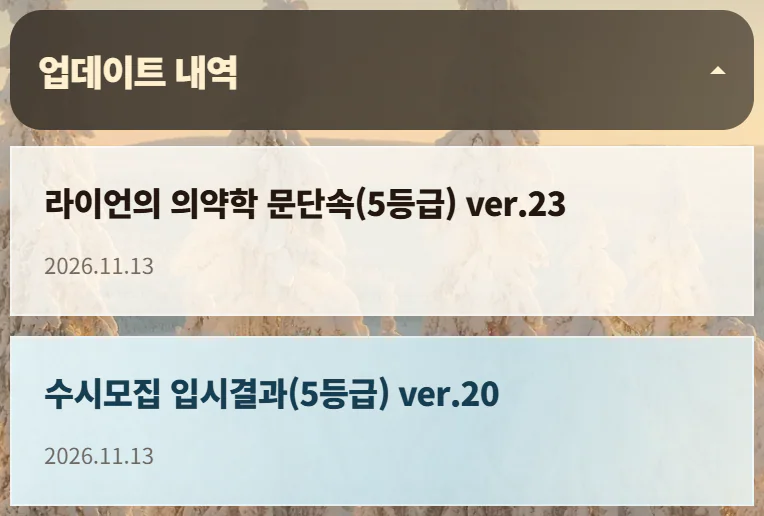
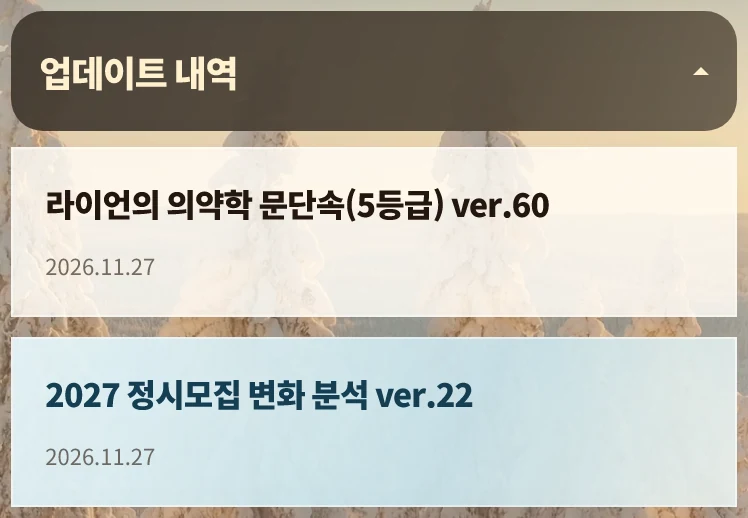
Refresh linked project history and add a subtle button glow

diff --git a/index.html b/index.html
@@ -30,7 +30,7 @@
   <meta name="twitter:title" content="진학 인사이트">
   <meta name="twitter:description" content="입시 정보와 진학 도구를 한곳에서 확인하세요.">
   <meta name="twitter:image" content="https://seiryu1318.github.io/Ergosphere_Ryan/og-preview-20260827-05.jpg">
-  <title>라이언의 대입 포털 ver.20261127 - 07</title>
+  <title>라이언의 대입 포털 ver.20261127 - 08</title>
   <script>
     const tabletViewKey = "ryan-portal-tablet-view";
     const manualViewKey = "ryan-portal-manual-view";
@@ -4136,18 +4136,16 @@
         position: absolute;
         pointer-events: none;
         z-index: -1;
-        inset: 0 auto 0 0;
-        width: 75%;
-        background: linear-gradient(109deg, transparent 6%, #ccefff10 27%, #dff6ff50 49%, #dff6ff2a 63%, #ccefff0c 78%, transparent 94%);
-        animation: action-sheen 2.6s ease-in-out infinite;
-        animation-delay: var(--sheen-delay, 0s);
+        inset: 0;
+        background: radial-gradient(ellipse at 50% 15%, #e0f8ff48 0, #a7e9ff26 43%, #9fdfff10 65%, transparent 88%);
+        animation: action-glow 2.6s ease-in-out infinite;
+        animation-delay: var(--glow-delay, 0s);
       }
-      #viewToggle { --sheen-delay: -.32s; }
-      .help-launch { --sheen-delay: -.65s; }
-      @keyframes action-sheen {
-        0% { opacity: 0; transform: translateX(-105%); }
-        22%, 38% { opacity: .85; }
-        60%, 100% { opacity: 0; transform: translateX(140%); }
+      #viewToggle { --glow-delay: -.32s; }
+      .help-launch { --glow-delay: -.65s; }
+      @keyframes action-glow {
+        0%, 100% { opacity: .08; }
+        50% { opacity: .92; }
       }
     }
     html.mode-mobile-root, body.mode-mobile { overscroll-behavior-y: none; }
@@ -4210,7 +4208,7 @@
[1 lines of base64/hex data omitted]
         <span class="brand-copy">
           <strong>라이언의 대입 포털</strong>
-          <span>ver.20261127 - 07</span>
+          <span>ver.20261127 - 08</span>
         </span>
       </a>
       <div class="header-actions">
@@ -4242,58 +4240,62 @@
           </div>
           <div class="roadmap-grid">
             <article class="roadmap-card" data-project="medical-5">
-              <h3>라이언의 의약학 문단속<br>(5등급) ver.23</h3>
-              <span class="roadmap-date">2026.11.13</span><span class="roadmap-number">1</span>
+              <h3>라이언의 의약학 문단속<br>(5등급) ver.60</h3>
+              <span class="roadmap-date">2026.11.27</span><span class="roadmap-number">1</span>
             </article>
-            <article class="roadmap-card" data-project="admission-5">
-              <h3>수시모집 입시결과<br>(5등급) ver.20</h3>
-              <span class="roadmap-date">2026.11.13</span><span class="roadmap-number">2</span>
+            <article class="roadmap-card" data-project="regular-a">
+              <h3>2027 정시모집 변화 분석<br>ver.22</h3>
+              <span class="roadmap-date">2026.11.27</span><span class="roadmap-number">2</span>
             </article>
-            <article class="roadmap-card" data-project="record">
-              <h3>라이언의 기록 분석<br>PC ver.35<br>모바일 ver.28</h3>
-              <span class="roadmap-date">2026.11.13</span><span class="roadmap-number">3</span>
+            <article class="roadmap-card" data-project="guide">
+              <h3>가이드북 통합 검색기<br>ver.26</h3>
+              <span class="roadmap-date">2026.11.26</span><span class="roadmap-number">3</span>
             </article>
             <article class="roadmap-card" data-project="regular">
-              <h3>정시모집 입결 분석기<br>(2023-2026) ver.20</h3>
-              <span class="roadmap-date">2026.10.27</span><span class="roadmap-number">4</span>
+              <h3>정시모집 입결 분석기<br>(2023-2026) ver.22</h3>
+              <span class="roadmap-date">2026.11.25</span><span class="roadmap-number">4</span>
+            </article>
+            <article class="roadmap-card" data-project="admission-5">
+              <h3>수시모집 입시결과<br>(5등급) ver.24</h3>
+              <span class="roadmap-date">2026.11.23</span><span class="roadmap-number">5</span>
+            </article>
+            <article class="roadmap-card" data-project="doc-ev">
+              <h3>라이언의 모집단위<br>추천 ver.19</h3>
+              <span class="roadmap-date">2026.11.17</span><span class="roadmap-number">6</span>
             </article>
             <article class="roadmap-card" data-project="curriculum">
-              <h3>2022 선택과목 검색기<br>ver.53</h3>
-              <span class="roadmap-date">2026.10.19</span><span class="roadmap-number">5</span>
+              <h3>2022 선택과목 검색기<br>ver.54</h3>
+              <span class="roadmap-date">2026.11.17</span><span class="roadmap-number">7</span>
             </article>
             <article class="roadmap-card" data-project="rating">
-              <h3>5등급 - 9등급 변환<br>ver.40</h3>
-              <span class="roadmap-date">2026.10.14</span><span class="roadmap-number">6</span>
+              <h3>5등급 - 9등급 변환<br>ver.41</h3>
+              <span class="roadmap-date">2026.11.17</span><span class="roadmap-number">8</span>
+            </article>
+            <article class="roadmap-card" data-project="competition">
+              <h3>경쟁률 검색기<br>PC ver.22<br>모바일 ver.10</h3>
+              <span class="roadmap-date">2026.11.17</span><span class="roadmap-number">9</span>
+            </article>
+            <article class="roadmap-card" data-project="record">
+              <h3>라이언의 기록 분석<br>PC ver.36<br>모바일 ver.29</h3>
+              <span class="roadmap-date">2026.11.17</span><span class="roadmap-number">10</span>
             </article>
             <article class="roadmap-card" data-project="medical-9">
               <h3>라이언의 의약학 문단속<br>(9등급) ver.58</h3>
-              <span class="roadmap-date">2026.10.14</span><span class="roadmap-number">7</span>
+              <span class="roadmap-date">2026.10.14</span><span class="roadmap-number">11</span>
             </article>
-            <article class="roadmap-card" data-project="regular-a">
-              <h3>2027 정시모집 변화 분석<br>ver.16</h3>
-              <span class="roadmap-date">2026.10.14</span><span class="roadmap-number">8</span>
-            </article>
-            <article class="roadmap-card">
+            <article class="roadmap-card" data-project="admission-9">
               <h3>수시모집 입시결과<br>(9등급) ver.114</h3>
-              <span class="roadmap-date">2026.09.29</span><span class="roadmap-number">9</span>
-            </article>
-            <article class="roadmap-card">
-              <h3>라이언의 모집단위<br>추천 ver.18</h3>
-              <span class="roadmap-date">2026.09.29</span><span class="roadmap-number">10</span>
-            </article>
-            <article class="roadmap-card">
-              <h3>가이드북 통합 검색기<br>ver.21</h3>
-              <span class="roadmap-date">2026.09.22</span><span class="roadmap-number">11</span>
+              <span class="roadmap-date">2026.09.29</span><span class="roadmap-number">12</span>
             </article>
             <article class="roadmap-card">
               <span class="roadmap-badge">준비 중</span>
               <h3>좋은 기록이란<br>무엇일까?</h3>
-              <span class="roadmap-date">예정</span><span class="roadmap-number">12</span>
+              <span class="roadmap-date">예정</span><span class="roadmap-number">13</span>
             </article>
             <article class="roadmap-card">
               <span class="roadmap-badge">준비 중</span>
               <h3>의약학 특화<br>가이드</h3>
-              <span class="roadmap-date">예정</span><span class="roadmap-number">13</span>
+              <span class="roadmap-date">예정</span><span class="roadmap-number">14</span>
             </article>
           </div>
           <p class="roadmap-credit">Copyright © 2026 동대부속고 라이언</p>
@@ -4514,17 +4516,18 @@
       <details class="mobile-section" id="mobileUpdates">
         <summary><h2 class="mobile-section-title" id="mobileRoadmapTitle">업데이트 내역</h2></summary>
         <ol class="mobile-roadmap-list">
-          <li class="mobile-roadmap-item" data-project="medical-5"><span><strong>라이언의 의약학 문단속(5등급) ver.23</strong><small>2026.11.13</small></span></li>
-          <li class="mobile-roadmap-item" data-project="admission-5"><span><strong>수시모집 입시결과(5등급) ver.20</strong><small>2026.11.13</small></span></li>
-          <li class="mobile-roadmap-item" data-project="record"><span><strong>라이언의 기록 분석 PC ver.35, 모바일 ver.28</strong><small>2026.11.13</small></span></li>
-          <li class="mobile-roadmap-item" data-project="regular"><span><strong>정시모집 입결 분석기(2023-2026) ver.20</strong><small>2026.10.27</small></span></li>
-          <li class="mobile-roadmap-item" data-project="curriculum"><span><strong>2022 선택과목 검색기 ver.53</strong><small>2026.10.19</small></span></li>
-          <li class="mobile-roadmap-item" data-project="rating"><span><strong>5등급 - 9등급 변환 ver.40</strong><small>2026.10.14</small></span></li>
+          <li class="mobile-roadmap-item" data-project="medical-5"><span><strong>라이언의 의약학 문단속(5등급) ver.60</strong><small>2026.11.27</small></span></li>
+          <li class="mobile-roadmap-item" data-project="regular-a"><span><strong>2027 정시모집 변화 분석 ver.22</strong><small>2026.11.27</small></span></li>
+          <li class="mobile-roadmap-item" data-project="guide"><span><strong>가이드북 통합 검색기 ver.26</strong><small>2026.11.26</small></span></li>
+          <li class="mobile-roadmap-item" data-project="regular"><span><strong>정시모집 입결 분석기(2023-2026) ver.22</strong><small>2026.11.25</small></span></li>
+          <li class="mobile-roadmap-item" data-project="admission-5"><span><strong>수시모집 입시결과(5등급) ver.24</strong><small>2026.11.23</small></span></li>
+          <li class="mobile-roadmap-item" data-project="doc-ev"><span><strong>라이언의 모집단위 추천 ver.19</strong><small>2026.11.17</small></span></li>
+          <li class="mobile-roadmap-item" data-project="curriculum"><span><strong>2022 선택과목 검색기 ver.54</strong><small>2026.11.17</small></span></li>
+          <li class="mobile-roadmap-item" data-project="rating"><span><strong>5등급 - 9등급 변환 ver.41</strong><small>2026.11.17</small></span></li>
+          <li class="mobile-roadmap-item" data-project="competition"><span><strong>경쟁률 검색기 PC ver.22, 모바일 ver.10</strong><small>2026.11.17</small></span></li>
+          <li class="mobile-roadmap-item" data-project="record"><span><strong>라이언의 기록 분석 PC ver.36, 모바일 ver.29</strong><small>2026.11.17</small></span></li>
           <li class="mobile-roadmap-item" data-project="medical-9"><span><strong>라이언의 의약학 문단속(9등급) ver.58</strong><small>2026.10.14</small></span></li>
-          <li class="mobile-roadmap-item" data-project="regular-a"><span><strong>2027 정시모집 변화 분석 ver.16</strong><small>2026.10.14</small></span></li>
-          <li class="mobile-roadmap-item"><span><strong>수시모집 입시결과(9등급) ver.114</strong><small>2026.09.29</small></span></li>
-          <li class="mobile-roadmap-item"><span><strong>라이언의 모집단위 추천 ver.18</strong><small>2026.09.29</small></span></li>
-          <li class="mobile-roadmap-item"><span><strong>가이드북 통합 검색기 ver.21</strong><small>2026.09.22</small></span></li>
+          <li class="mobile-roadmap-item" data-project="admission-9"><span><strong>수시모집 입시결과(9등급) ver.114</strong><small>2026.09.29</small></span></li>
           <li class="mobile-roadmap-item"><span><strong>좋은 기록이란 무엇일까?</strong><small>예정</small></span><span class="mobile-roadmap-status">준비 중</span></li>
           <li class="mobile-roadmap-item"><span><strong>의약학 특화 가이드</strong><small>예정</small></span><span class="mobile-roadmap-status">준비 중</span></li>
         </ol>
@@ -4621,7 +4624,7 @@
             </li>
             <li>
               <p>오른쪽 아래 <strong>업데이트 내역</strong>을 누르면 어떤 자료가 언제 바뀌었는지 볼 수 있습니다.</p>
-              <img class="guide-shot" src="./assets/step-find-pc-3.webp?v=20261118-08" width="672" height="597" loading="lazy" decoding="async" alt="PC 업데이트 내역에 나란히 표시된 프로젝트 카드와 날짜">
+              <img class="guide-shot" src="./assets/step-find-pc-3.webp?v=20261127-08" width="720" height="649" loading="lazy" decoding="async" alt="PC 업데이트 내역에 나란히 표시된 프로젝트 카드와 날짜">
             </li>
           </ol>
         </template>
@@ -4637,7 +4640,7 @@
             </li>
             <li>
               <p>메뉴 끝까지 내리면 <strong>업데이트 내역</strong>이 펼쳐집니다. 위로 올리면 다시 메뉴가 보입니다.</p>
-              <img class="guide-shot" src="./assets/step-basic-3.webp?v=20261127-01" width="764" height="516" loading="lazy" decoding="async" alt="모바일 메뉴 아래 펼쳐진 업데이트 내역과 각 자료의 변경 날짜">
+              <img class="guide-shot" src="./assets/step-basic-3.webp?v=20261127-08" width="748" height="518" loading="lazy" decoding="async" alt="모바일 메뉴 아래 펼쳐진 업데이트 내역과 각 자료의 변경 날짜">
             </li>
           </ol>
         </template>
@@ -4730,7 +4733,7 @@
 
       if ("serviceWorker" in navigator && supportsPwaInstall) {
         window.addEventListener("load", () => {
-          navigator.serviceWorker.register("./service-worker.js?v=20261127-07", {
+          navigator.serviceWorker.register("./service-worker.js?v=20261127-08", {
             scope: "./",
             updateViaCache: "none"
           }).then((registration) => registration.update()).catch(() => {});
@@ -5595,6 +5598,6 @@
       syncScrollControl();
     })();
   </script>
-  <script src="./project-dots.js?v=20261127-07" defer></script>
+  <script src="./project-dots.js?v=20261127-08" defer></script>
 </body>
 </html>

diff --git a/service-worker.js b/service-worker.js
@@ -1,10 +1,10 @@
 const CACHE_PREFIX = "ryan-admission-portal-";
-const CACHE_NAME = "ryan-admission-portal-20261127-07";
+const CACHE_NAME = "ryan-admission-portal-20261127-08";
 const SCOPE_URL = new URL(self.registration.scope);
 const INDEX_URL = new URL("./index.html", SCOPE_URL);
 const APP_SHELL = [
   "./index.html",
-  "./project-dots.js?v=20261127-07",
+  "./project-dots.js?v=20261127-08",
   "./project-updates.json",
   "./manifest.webmanifest",
   "./og-preview-20260827-05.jpg",
